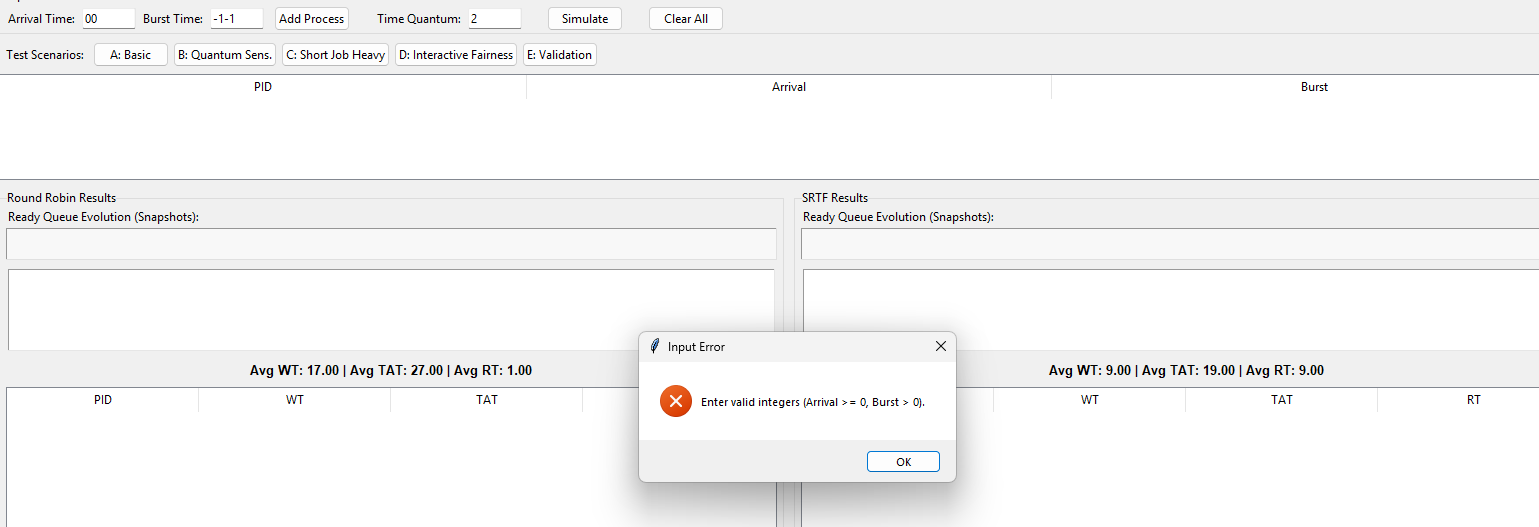
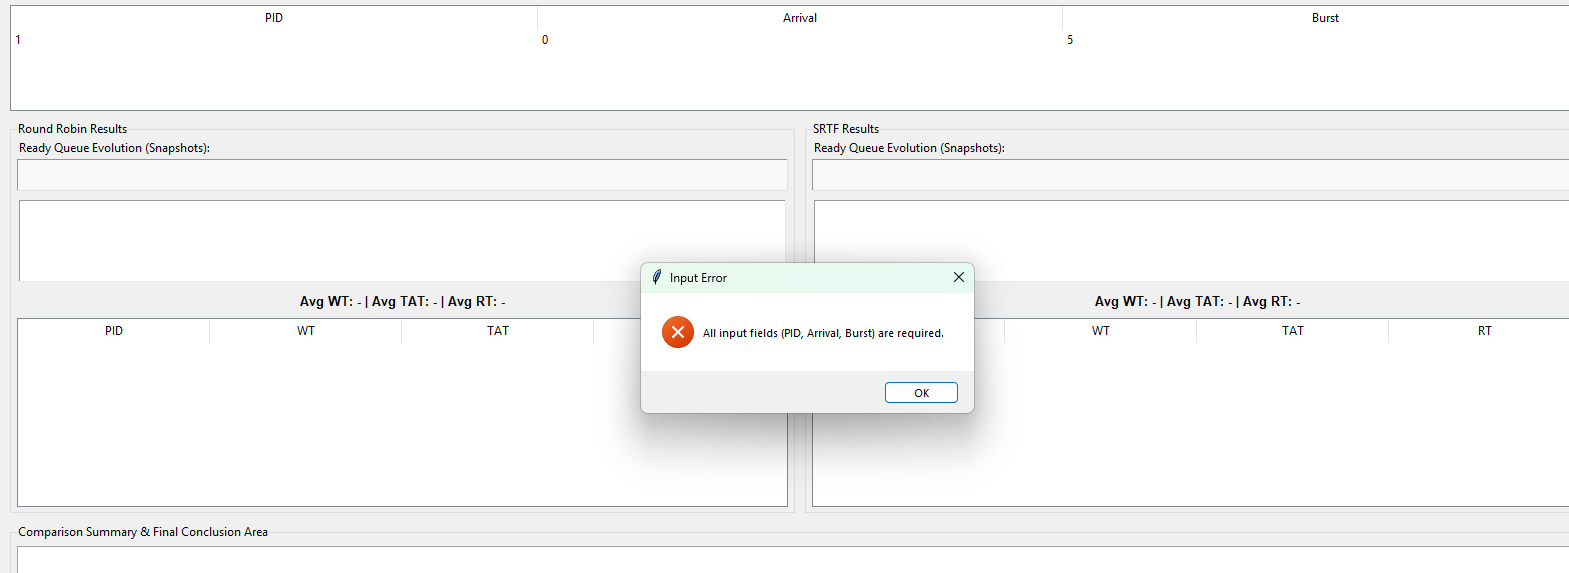
added 4 validations test scenarios and button for resetting the input

diff --git a/src/gui/app.py b/src/gui/app.py
@@ -8,7 +8,7 @@ from src.tests.scenarios import SCENARIOS
 class AlgorithmsApp:
     def __init__(self, root):
         self.root = root
-        self.root.title("CPU Scheduling Comparison: RR vs SRTF")
+        self.root.title("Round Robin vs SRTF")
         self.root.geometry("1200x900")
         self.processes_data = []
         self.setup_ui()
@@ -22,6 +22,10 @@ class AlgorithmsApp:
         
         row1 = ttk.Frame(input_p)
         row1.pack(fill="x", padx=5, pady=2)
+        ttk.Label(row1, text="PID:").pack(side="left")
+        self.pid_entry = ttk.Entry(row1, width=5)
+        self.pid_entry.insert(0, "1")
+        self.pid_entry.pack(side="left", padx=5)
         ttk.Label(row1, text="Arrival Time:").pack(side="left")
         self.arrival_entry = ttk.Entry(row1, width=8)
         self.arrival_entry.pack(side="left", padx=5)
@@ -29,6 +33,7 @@ class AlgorithmsApp:
         self.burst_entry = ttk.Entry(row1, width=8)
         self.burst_entry.pack(side="left", padx=5)
         ttk.Button(row1, text="Add Process", command=self.add_process).pack(side="left", padx=5)
+        ttk.Button(row1, text="Reset", command=self.reset_inputs).pack(side="left", padx=5)
         
         ttk.Label(row1, text="Time Quantum:").pack(side="left", padx=(20, 0))
         self.quantum_entry = ttk.Entry(row1, width=8)
@@ -91,15 +96,44 @@ class AlgorithmsApp:
 
     def add_process(self):
         try:
-            a, b = int(self.arrival_entry.get()), int(self.burst_entry.get())
-            if a < 0 or b <= 0: raise ValueError
-            pid = len(self.processes_data) + 1
+            pid_val = self.pid_entry.get().strip()
+            arr_val = self.arrival_entry.get().strip()
+            burst_val = self.burst_entry.get().strip()
+
+            if not pid_val or not arr_val or not burst_val:
+                raise ValueError("All input fields (PID, Arrival, Burst) are required.")
+
+            pid = int(pid_val)
+            a = int(arr_val)
+            b = int(burst_val)
+
+            if pid <= 0:
+                raise ValueError("PID must be a positive integer.")
+            if a < 0:
+                raise ValueError("Arrival Time cannot be negative.")
+            if b <= 0:
+                raise ValueError("Burst Time must be a positive integer.")
+
+            if any(p.pid == pid for p in self.processes_data):
+                raise ValueError(f"Process ID {pid} already exists. Please use a unique ID.")
+
             self.processes_data.append(Process(pid, a, b))
             self.process_table.insert("", "end", values=(pid, a, b))
+            
+            self.pid_entry.delete(0, tk.END)
+            self.pid_entry.insert(0, str(max([p.pid for p in self.processes_data] + [0]) + 1))
             self.arrival_entry.delete(0, tk.END)
             self.burst_entry.delete(0, tk.END)
-        except: 
-            messagebox.showerror("Input Error", "Enter valid integers (Arrival >= 0, Burst > 0).")
+        except ValueError as e:
+            messagebox.showerror("Input Error", str(e))
+        except Exception as e:
+            messagebox.showerror("Error", f"Unexpected error: {e}")
+
+    def reset_inputs(self):
+        self.pid_entry.delete(0, tk.END)
+        self.pid_entry.insert(0, str(max([p.pid for p in self.processes_data] + [0]) + 1))
+        self.arrival_entry.delete(0, tk.END)
+        self.burst_entry.delete(0, tk.END)
 
     def clear_all(self):
         self.processes_data = []
@@ -116,9 +150,45 @@ class AlgorithmsApp:
     def load_scenario(self, t):
         self.clear_all()
         if t == 'E': 
+            
+            self.reset_inputs()
+            self.pid_entry.delete(0, tk.END)
+            self.pid_entry.insert(0, "1")
             self.arrival_entry.insert(0, "0")
-            self.burst_entry.insert(0, "-1")
+            self.burst_entry.insert(0, "-5")
+            messagebox.showinfo("Validation Test", "Testing invalid Burst Time (-5)...")
             self.add_process()
+
+            
+            self.reset_inputs()
+            self.pid_entry.delete(0, tk.END)
+            self.pid_entry.insert(0, "1")
+            self.arrival_entry.insert(0, "0")
+            self.burst_entry.insert(0, "5")
+            self.add_process()
+            messagebox.showinfo("Validation Test", "Testing Duplicate PID (Adding another P1)...")
+            self.pid_entry.delete(0, tk.END)
+            self.pid_entry.insert(0, "1")
+            self.arrival_entry.insert(0, "2")
+            self.burst_entry.insert(0, "3")
+            self.add_process()
+
+
+            self.reset_inputs()
+            self.pid_entry.delete(0, tk.END)
+            self.pid_entry.insert(0, "2")
+            self.arrival_entry.insert(0, "0")
+            
+            
+            messagebox.showinfo("Validation Test", "Testing Missing Burst Time...")
+            self.add_process()
+            
+           
+           
+            self.quantum_entry.delete(0, tk.END)
+            self.quantum_entry.insert(0, "abc")
+            messagebox.showinfo("Validation Test", "Testing Invalid Time Quantum ('abc')...")
+            self.run_simulation()
             return
         
         for a, b in SCENARIOS[t]:
@@ -136,10 +206,14 @@ class AlgorithmsApp:
             messagebox.showwarning("Empty", "Add processes first.")
             return
         try:
-            q = int(self.quantum_entry.get())
-            if q <= 0: raise ValueError
-        except: 
-            messagebox.showerror("Error", "Invalid Quantum.")
+            q_val = self.quantum_entry.get().strip()
+            if not q_val:
+                raise ValueError("Time Quantum is required.")
+            q = int(q_val)
+            if q <= 0:
+                raise ValueError("Time Quantum must be a positive integer.")
+        except ValueError as e:
+            messagebox.showerror("Error", str(e))
             return
             
         rr_p, rr_g, rr_h = simulate_rr(self.processes_data, q)
